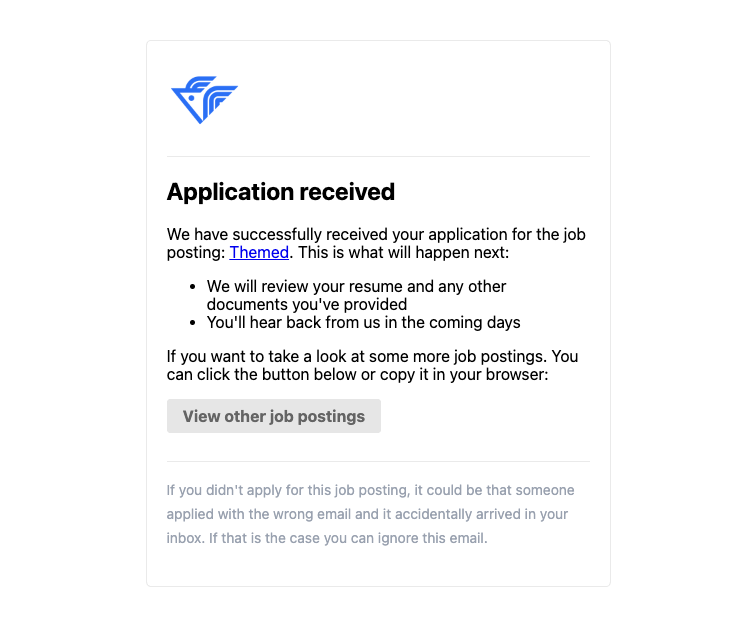
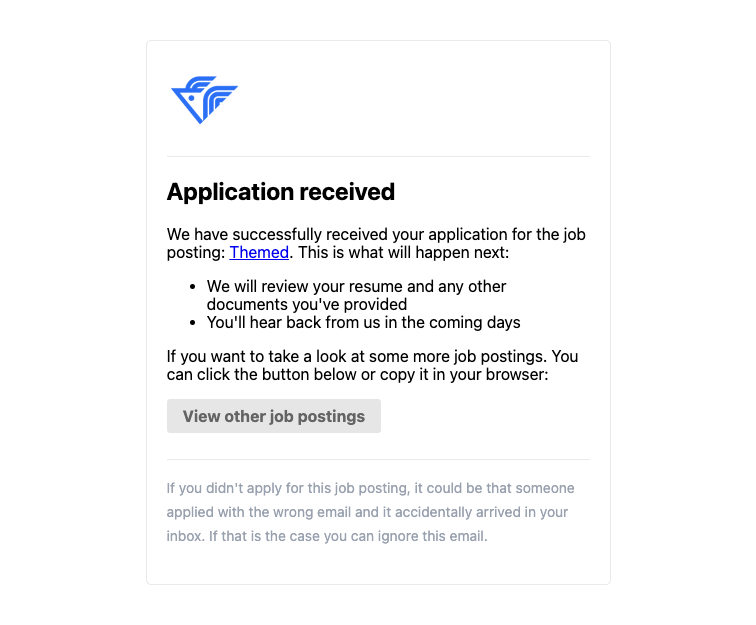
emove margin

diff --git a/defaults-templates.go b/defaults-templates.go
@@ -31,7 +31,7 @@ const DefaultConfirmBodyHTMLLegacy = `
 // DefaultConfirmBodyHTML is the default body for job-application-confirm emails.
 // It uses {job_posting_href}, {job_title}, and {career_site_homepage_href} placeholders
 // resolved via ResolveVars before rendering.
-const DefaultConfirmBodyHTML = `<h2>Application received</h2><p>We have successfully received your application for the job posting: <a href="{job_posting_href}">{job_title}</a>. This is what will happen next:</p><ul><li>We will review your resume and any other documents you've provided</li><li>You'll hear back from us in the coming days</li></ul><p>If you want to take a look at some more job postings. You can click the button below or copy it in your browser:</p><a href="{career_site_homepage_href}" style="background-color:#3b82f6;color:#ffffff;font-weight:700;padding:8px 16px;border-radius:0.25rem;text-decoration:none;display:inline-block;margin-bottom:20px" class="sd-theme-button">View other job postings</a><br>`
+const DefaultConfirmBodyHTML = `<h2>Application received</h2><p>We have successfully received your application for the job posting: <a href="{job_posting_href}">{job_title}</a>. This is what will happen next:</p><ul><li>We will review your resume and any other documents you've provided</li><li>You'll hear back from us in the coming days</li></ul><p>If you want to take a look at some more job postings. You can click the button below or copy it in your browser:</p><a href="{career_site_homepage_href}" style="background-color:#3b82f6;color:#ffffff;font-weight:700;padding:8px 16px;border-radius:0.25rem;text-decoration:none;display:inline-block;" class="sd-theme-button">View other job postings</a><br><br>`
 
 // DefaultDeclineBodyHTMLLegacy is the original body seeded by migration 123.
 // Used only as the down-migration target for the migration that replaces it with DefaultDeclineBodyHTML.
@@ -55,4 +55,4 @@ const DefaultDeclineBodyHTMLLegacy = `
 // DefaultDeclineBodyHTML is the default body for job-application-decline emails.
 // It uses {job_posting_href}, {job_title}, and {career_site_homepage_href} placeholders
 // resolved via ResolveVars before rendering.
-const DefaultDeclineBodyHTML = `<h2>Update on your application</h2><p>We've reviewed your application for <a href="{job_posting_href}">{job_title}</a> and, unfortunately, you won't be moving forward for this role. We appreciate the time you took to apply and encourage you to explore other opportunities that might be a great fit for you.</p><a href="{career_site_homepage_href}" style="background-color:#3b82f6;color:#ffffff;font-weight:700;padding:8px 16px;border-radius:0.25rem;text-decoration:none;display:inline-block;margin-bottom:20px" class="sd-theme-button">View Job Postings</a><br>`
+const DefaultDeclineBodyHTML = `<h2>Update on your application</h2><p>We've reviewed your application for <a href="{job_posting_href}">{job_title}</a> and, unfortunately, you won't be moving forward for this role. We appreciate the time you took to apply and encourage you to explore other opportunities that might be a great fit for you.</p><a href="{career_site_homepage_href}" style="background-color:#3b82f6;color:#ffffff;font-weight:700;padding:8px 16px;border-radius:0.25rem;text-decoration:none;display:inline-block;" class="sd-theme-button">View Job Postings</a><br><br>`
